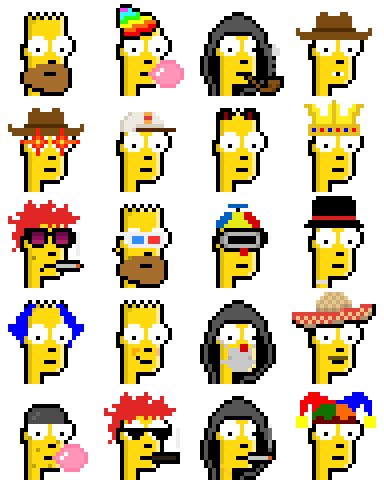
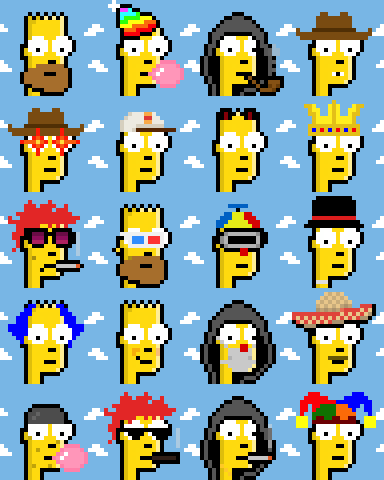
up

diff --git a/simpsons/simpsons.rb b/simpsons/simpsons.rb
@@ -66,15 +66,22 @@ puts "  #{specs.size} record(s)"
 
 
 
+background_sky = Image.read( './background_sky-24x24.png' )
+
 
 composite = ImageComposite.new( 4, 5 )
 
 specs.each_with_index do |attributes,i|
    punk = Punk::Image.generate( *attributes, patch: PATCH )
-   punk.save( "./tmp/bart-#{i}.png" )
-   punk.zoom(4).save( "./tmp/bart-#{i}@4x.png" )
 
-   composite << punk     if i < 20
+   frame = Image.new( 24, 24 )
+   frame.compose!( background_sky )
+   frame.compose!( punk )
+
+   frame.save( "./tmp/bart-#{i}.png" )
+   frame.zoom(4).save( "./tmp/bart-#{i}@4x.png" )
+
+   composite << frame     if i < 20
 end
 
 
